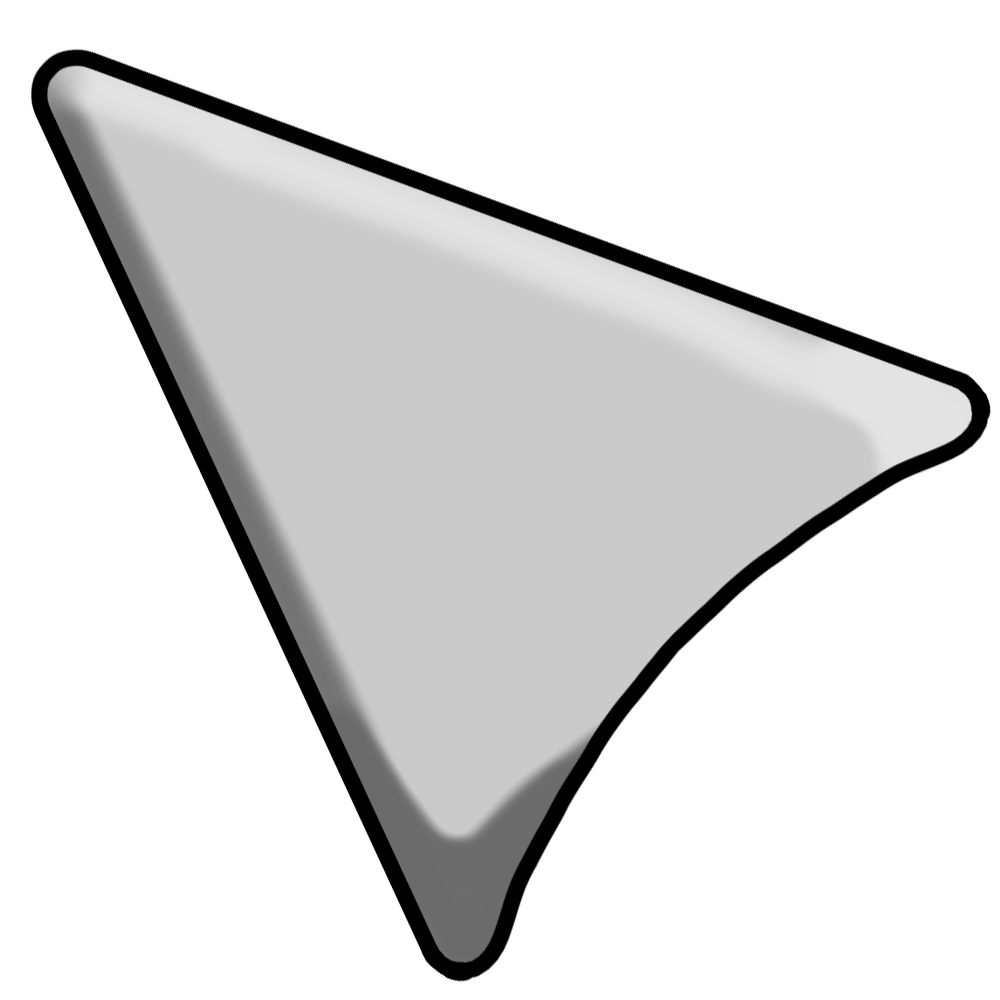
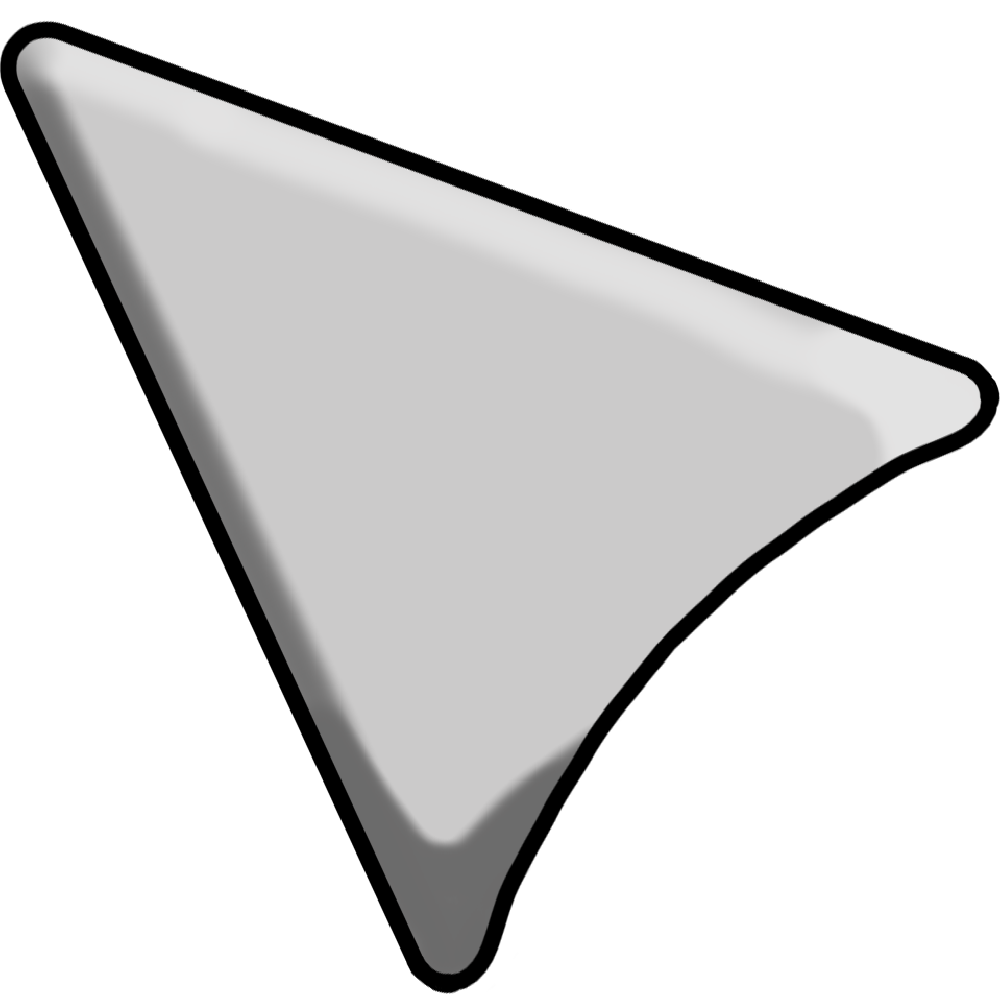
cursor edits & bugfix

Changed region(s): [[0.0, 0.0, 1.0, 0.992]]

diff --git a/Assets/Scripts/HorseObtained.cs b/Assets/Scripts/HorseObtained.cs
@@ -11,6 +11,7 @@ public class HorseObtained : MonoBehaviour
     [SerializeField] private GameObject textBox;
     [SerializeField] private float waitTime;
     public static HorseObtained instance;
+    private bool isActive;
 
     private void Awake()
     {
@@ -26,11 +27,15 @@ public class HorseObtained : MonoBehaviour
     }
     public void StartPopup(ItemObject item)
     {
-        StartCoroutine(TogglePopup(item.uiDisplay));
+        if (!isActive)
+        {
+            StartCoroutine(TogglePopup(item.uiDisplay));
+        }
     }
 
     public IEnumerator TogglePopup(Sprite horseSprite)
     {
+        isActive = true;
         image.gameObject.SetActive(true);
         textObject.SetActive(true);
         textBox.SetActive(true);
@@ -41,5 +46,6 @@ public class HorseObtained : MonoBehaviour
         image.gameObject.SetActive(false);
         textObject.SetActive(false);
         textBox.SetActive(false);
+        isActive = false;
     }
 }

diff --git a/Assets/Scripts/Minigames/Fishing/Shorse.cs b/Assets/Scripts/Minigames/Fishing/Shorse.cs
@@ -26,6 +26,7 @@ public class Shorse : Fish
         {
             inventorySO.AddItem(item, 1);
             MinigameLevelManager.Instance.FishLevelIndex++;
+            HorseObtained.instance.StartPopup(horseSO);
         }
         Destroy(gameObject);
     }
